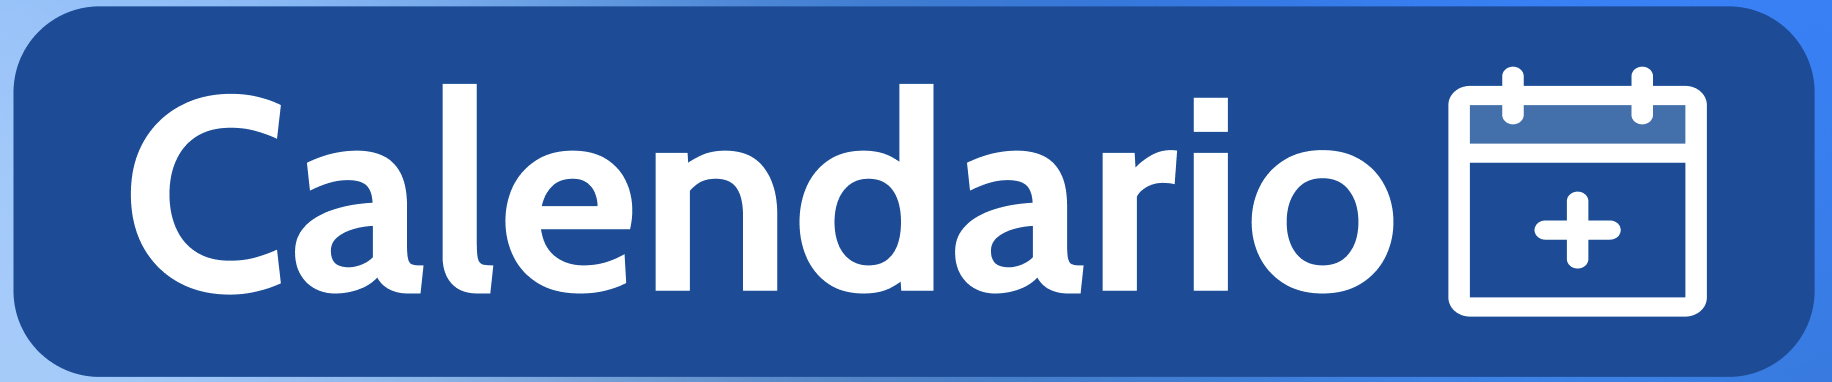
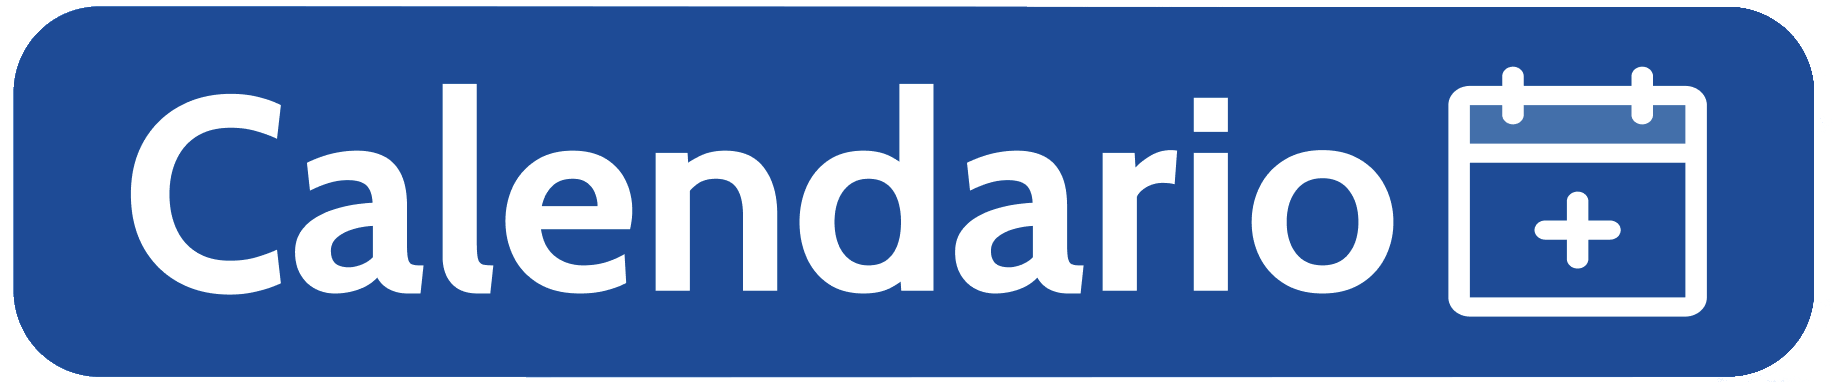
Paolo Embelleciendo

Changed region(s): [[0.0, 0.0, 1.0, 1.0]]

diff --git a/index.html b/index.html
@@ -9,20 +9,20 @@
     <body>
         <div class="v2_2">
             <div class="action-buttons">
-                <a href="calendar.html" target="_blank">
-                    <button class="btn-action" id="calendarbt"> <img src="../images/btnfood.png" height ="90" width="280" /></button>
+                <a href="calendar.html">
+                    <button class="btn-action" id="calendarbt"> <img src="./images/btnfood.png" height ="80" width="385" /></button>
                 </a>
             </div>
 
             <div class="action-buttons">
-                <a href="map.html" target="_blank">
-                    <button class="btn-action" id="foodbt"> <img src="../images/btnmapa.png" height ="90" width="280" /></button>
+                <a href="map.html">
+                    <button class="btn-action" id="foodbt"> <img src="./images/btnmapa.png" height ="80" width="385" /></button>
                 </a>
             </div>
 
             <div class="action-buttons">
-                <a href="calendar.html" target="_blank">
-                    <button class="btn-action" id="map"> <img src="../images/btncalendario.png" height ="90" width="260" /></button>
+                <a href="calendar.html">
+                    <button class="btn-action" id="map"> <img src="./images/btncalendario.png" height ="85" width="395" /></button>
                 </a>
             </div>
             

diff --git a/css/main.css b/css/main.css
@@ -10,12 +10,6 @@ body {
 .v2_2 {
   width: 100%;
   height: 768px;
-  background: linear-gradient(
-      217deg,
-      rgba(0, 21, 255, 0.8),
-      rgba(0, 232, 166, 0) 70.71%
-    ), linear-gradient(127deg, rgba(71, 226, 108, 0.8), rgba(255, 255, 255, 0) 70.71%),
-    linear-gradient(336deg, rgba(0, 30, 255, 0.8), rgba(241, 239, 65, 0) 70.71%);
   opacity: 1;
   position: relative;
   top: 0px;
@@ -115,16 +109,13 @@ body {
 
 .btn-action {
   font-family: 'Fira Mono', monospace;
-  color: #fff;
+  color: #ffffff00;
   border: none;
-  background-color: #0017FF;
+  background-color: #0015ff00;
   border-radius: 1px;
   padding: auto;
   font-size: 18px;
   cursor: pointer;
-  border: 2px solid #fff;
-  -webkit-box-shadow: 0 10px 20px -5px rgba(19, 31, 51, .65);
-  box-shadow: 0 10px 20px -5px rgba(19, 31, 51, .65);
 }
 
 #map {
@@ -153,6 +144,5 @@ body {
 
 
 .btn-action, .btn-image {
-  outline: auto;
   border-radius: 5px;
 }

diff --git a/style.css b/style.css
@@ -16,11 +16,13 @@
   position: absolute;
   top: 50%;
   left: 50%;
+  border: none;
   transform: translate(-50%,-50%);
 }
 
 .action-buttons {
   position: absolute;
+  border: none;
   bottom: 0;
   left: 50%;
   transform: translateX(-50%);
@@ -29,15 +31,13 @@
 
 button.btn-action {
   font-family: 'Fira Mono', monospace;
-  color: #755eb5;
   border: none;
-  background-color: #fff;
-  border-radius: 8px;
+  background-color: #ffffff00;
+  border-radius: -8px;
   padding: 20px 30px;
   font-size: 18px;
   cursor: pointer;
-  border: 2px solid #fff;
+  border: 2px solid #ffffff00;   
   -webkit-box-shadow: 0 10px 20px -5px rgba(19, 31, 51, .65);
   box-shadow: 0 10px 20px -5px rgba(19, 31, 51, .65);
-  
 }

diff --git a/css/main1.css b/css/main1.css
@@ -851,12 +851,11 @@ body {
   font-family: 'Fira Mono', monospace;
   color: #fff;
   border: none;
-  background-color: #0017FF;
+  background-color: #0015ff00;
   border-radius: 1px;
   padding: auto;
   font-size: 18px;
   cursor: pointer;
-  border: 2px solid #fff;
   -webkit-box-shadow: 0 10px 20px -5px rgba(19, 31, 51, .65);
   box-shadow: 0 10px 20px -5px rgba(19, 31, 51, .65);
   position: absolute;
